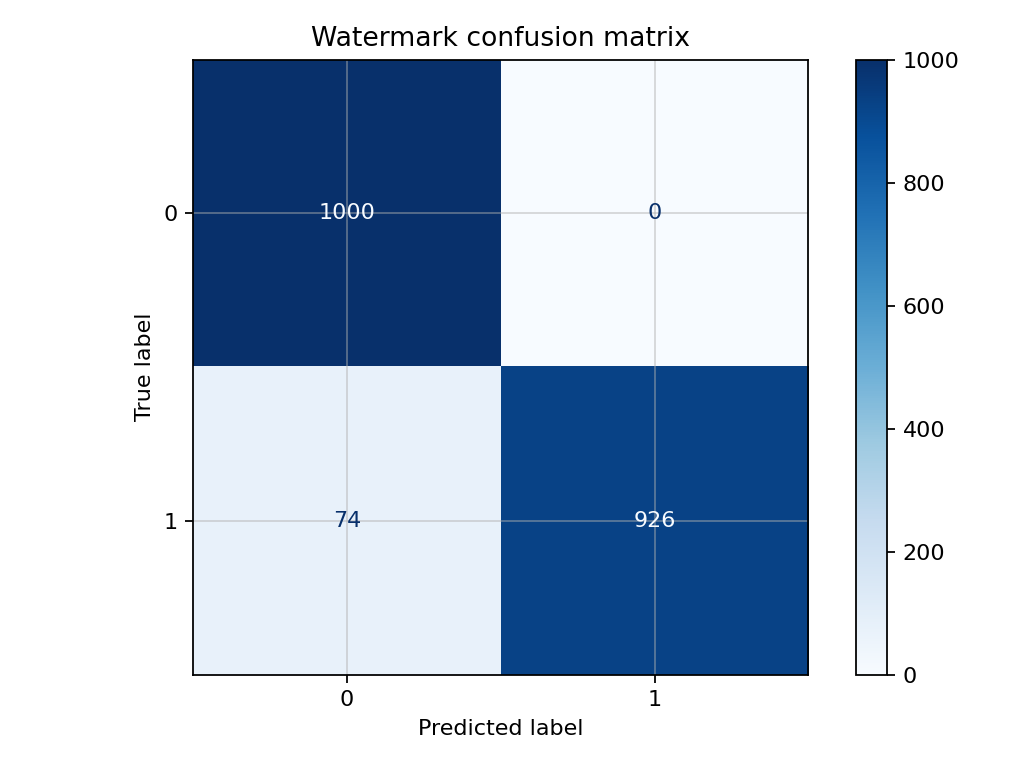
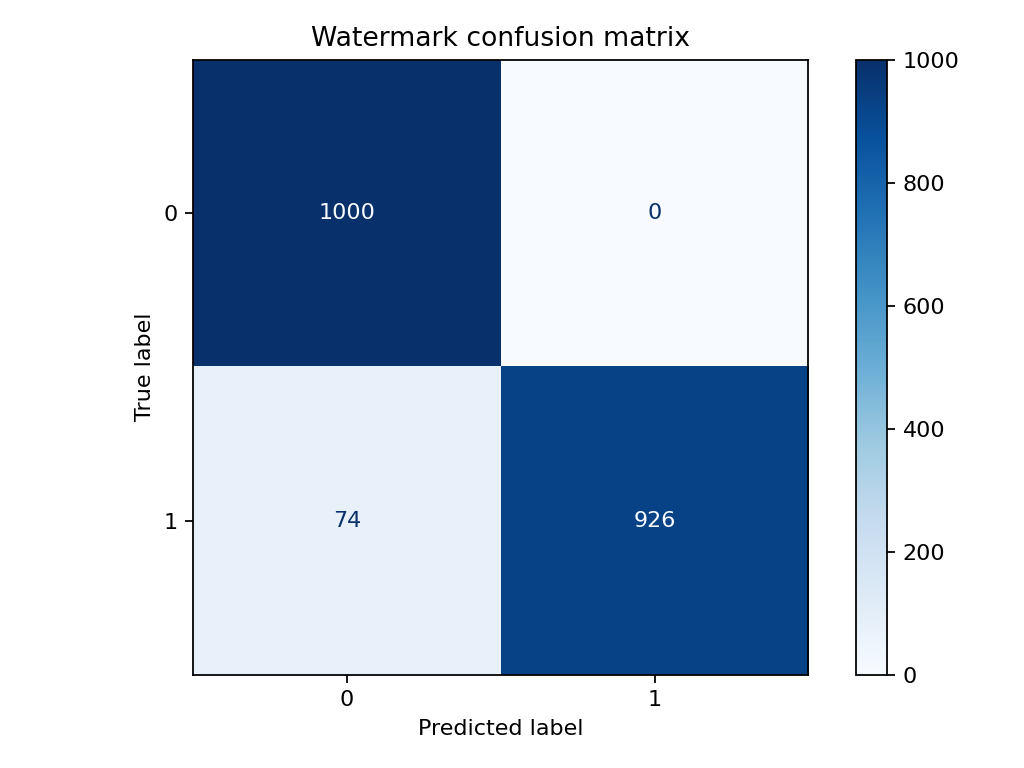
Strengthen documentation rationale and add PCA significance statistics.

diff --git a/main.py b/main.py
@@ -357,7 +357,6 @@ def evaluate_watermark(root: Path) -> None:
     disp = ConfusionMatrixDisplay(confusion_matrix=cm)
     disp.plot(cmap="Blues")
     plt.title("Watermark confusion matrix")
-    plt.grid(alpha=0.5)
     plt.tight_layout()
     plt.savefig(paths.metrics_dir / "watermark_confusion_matrix.png", dpi=160)
     plt.close()
@@ -466,6 +465,31 @@ def author_pca(root: Path) -> None:
 
     gen_matrix = np.stack(gen_vectors, axis=0)
     np.savez(paths.metrics_dir / "generated_embeddings.npz", embeddings=gen_matrix)
+
+    rng = np.random.default_rng(train_cfg.seed)
+    n_auth = author_matrix.shape[0]
+    n_gen = gen_matrix.shape[0]
+    pooled = np.concatenate([author_matrix, gen_matrix], axis=0)
+    observed_mean_distance = float(np.linalg.norm(author_matrix.mean(axis=0) - gen_matrix.mean(axis=0)))
+    resamples = 5000
+    ge_count = 0
+    for _ in tqdm(range(resamples), desc="Permutation p-value"):
+        perm = rng.permutation(n_auth + n_gen)
+        x = pooled[perm[:n_auth]]
+        y = pooled[perm[n_auth:]]
+        perm_dist = np.linalg.norm(x.mean(axis=0) - y.mean(axis=0))
+        ge_count += int(perm_dist >= observed_mean_distance)
+    p_value = float((ge_count + 1) / (resamples + 1))
+    save_json(
+        paths.metrics_dir / "author_pca_stats.json",
+        {
+            "author_count": int(n_auth),
+            "generated_count": int(n_gen),
+            "mean_embedding_distance": observed_mean_distance,
+            "permutation_p_value": p_value,
+            "resamples": resamples,
+        },
+    )
 
     all_matrix = np.concatenate([author_matrix, gen_matrix], axis=0)
     pca = PCA(n_components=2, random_state=train_cfg.seed)

diff --git a/README.md b/README.md
@@ -54,6 +54,7 @@ flowchart LR
 ```
 
 ### RoPE
+RoPE is used to encode relative position directly in attention space without learned absolute position embeddings. This keeps extrapolation to longer rhythm patterns more stable and preserves translation structure in the query-key dot product. The formulation follows Rotary Position Embedding from RoFormer.
 
 RoPE angular frequencies:
 
@@ -78,12 +79,17 @@ q_{2k+1}
 $$
 
 ### SwiGLU activation
+SwiGLU is used in the feed-forward block because the gated multiplicative path preserves stronger token-selective dynamics than a plain two-layer MLP and consistently improves language modelling quality at the same width.
+
+SwiGLU definition:
 
 $$
 \mathrm{SwiGLU}(x) = W_2\left(\mathrm{SiLU}(W_1x)\odot W_3x\right).
 $$
 
 ## Digital Watermark
+
+Digital watermarking follows the soft green-list construction from [Kirchenbauer et al., 2023](https://arxiv.org/abs/2301.10226). For each decoding step, a pseudo-random subset of vocabulary ids receives a positive logit bias, so generated text carries a detectable statistical signature while preserving fluent sampling.
 
 Generation bias parameters:
 
@@ -143,10 +149,13 @@ Hardware and schedule:
 | effective batch | 64 with `grad_accum_steps = 1` |
 | validation cadence | every 1000 steps with `eval_batches = 200` |
 
-Final optimisation state:
-- train CE window: 3.4006
-- val CE: 3.3099
-- LR: $3.0\times 10^{-5}$
+Final optimisation state from `artifacts/logs/train_history.csv`:
+
+| Quantity | Value |
+| --- | ---: |
+| train CE window | 3.4006 |
+| val CE | 3.3099 |
+| LR | $3.0\times 10^{-5}$ |
 
 Perplexity and watermark metrics:
 
@@ -183,6 +192,15 @@ Confusion matrix at threshold $z \ge 4.0$:
 Author-space PCA projection for generated and author centroids:
 
 ![Poetru-75M author PCA](artifacts/metrics/author_pca.png)
+
+Statistical difference between author and generated embedding distributions was measured with a permutation test over mean embedding shift:
+
+| Quantity | Value |
+| --- | ---: |
+| author samples | 1000 |
+| generated samples | 1000 |
+| mean-embedding distance | 22.3428 |
+| p-value | 0.00020 |
 
 ## 25M Pilot Experiment
 
@@ -244,3 +262,9 @@ print(text)
 ## License
 
 GPL-3.0, see `LICENSE`.
+
+## References
+
+- [RoFormer: Enhanced Transformer with Rotary Position Embedding](https://arxiv.org/abs/2104.09864)
+- [A Watermark for Large Language Models](https://arxiv.org/abs/2301.10226)
+- [Training Compute-Optimal Large Language Models](https://arxiv.org/abs/2203.15556)

diff --git a/docs/FRAMEWORK_GUIDE.md b/docs/FRAMEWORK_GUIDE.md
@@ -24,21 +24,32 @@ cp .env.example .env
 
 ## Core Pipeline Commands
 
-```bash
-python main.py train_tokenizer --root .
-python main.py train_model --root .
-python scripts/generate_poems.py --root . --count 1000
-python main.py perplexity --root .
-python scripts/evaluate_watermark.py
-python main.py author_pca --root .
-python main.py publish --root .
-```
+`python main.py train_tokenizer --root .`  
+Trains ByteLevel BPE and writes `artifacts/tokenizer/tokenizer.json` plus token-length plots and summary stats.
 
-Single pipeline call:
+`python main.py train_model --root .`  
+Runs full optimisation from step 0 with config defaults. Writes periodic `step_*.pt`, `final.pt`, and `artifacts/logs/train_history.csv`.
 
-```bash
-python main.py all --root .
-```
+`python main.py train_model --root . --resume latest`  
+Restores optimizer, scheduler, epoch, and step from newest checkpoint in `artifacts/checkpoints`.
+
+`python scripts/generate_poems.py --root . --count 1000`  
+Generates watermarked continuations and writes `artifacts/generated_poems.jsonl`. `--count` overrides `GenerationConfig.target_poem_count`.
+
+`python main.py perplexity --root .`  
+Computes validation loss and perplexity on a capped number of batches and writes `artifacts/metrics/perplexity.json`.
+
+`python scripts/evaluate_watermark.py`  
+Builds watermark metrics, ROC curve, confusion matrix, and `watermark_scores.csv`.
+
+`python main.py author_pca --root .`  
+Builds author and generated embedding sets, PCA projection figure, and permutation-test significance statistics.
+
+`python main.py publish --root .`  
+Publishes checkpoint, tokenizer, metrics, generated poems, and model card to Hugging Face model repo.
+
+`python main.py all --root .`  
+Runs tokenizer, training, generation, perplexity, watermark evaluation, author PCA, and publish in sequence.
 
 ## Resume Training
 

diff --git a/MODEL_CARD.md b/MODEL_CARD.md
@@ -10,11 +10,15 @@ datasets:
   - IlyaGusev/stihi_ru
 ---
 
-# poetru-75m
+# Poetru-75M
 
-Poetru-75M is a Russian poetry SLM trained on [IlyaGusev/stihi_ru](https://huggingface.co/datasets/IlyaGusev/stihi_ru).
+## Overview
+
+Poetru-75M is a Russian poetry SLM trained on [IlyaGusev/stihi_ru](https://huggingface.co/datasets/IlyaGusev/stihi_ru). The model line targets next-token prediction with 512-token context, watermark-aware decoding, and post-training validation by perplexity, ROC, and author-space geometry.
 
 GitHub source: [github.com/pymlex/poetru](https://github.com/pymlex/poetru)
+
+---
 
 ## Architecture
 
@@ -56,6 +60,8 @@ $$
 z=\frac{K-\gamma T}{\sqrt{T\gamma(1-\gamma)}}
 $$
 
+---
+
 ## Training Setup
 
 - CPU: Ryzen 9 9900X
@@ -86,6 +92,8 @@ From uploaded `metrics/`:
 ![Watermark ROC with random baseline](metrics/watermark_roc.png)
 ![Watermark confusion matrix](metrics/watermark_confusion_matrix.png)
 ![Author PCA](metrics/author_pca.png)
+
+---
 
 ## 25M Pilot
 
@@ -129,3 +137,11 @@ token_ids, _ = generate_poem(
 )
 print(tokenizer.decode(token_ids))
 ```
+
+---
+
+## References
+
+- [RoFormer: Enhanced Transformer with Rotary Position Embedding](https://arxiv.org/abs/2104.09864)
+- [A Watermark for Large Language Models](https://arxiv.org/abs/2301.10226)
+- [Training Compute-Optimal Large Language Models](https://arxiv.org/abs/2203.15556)
